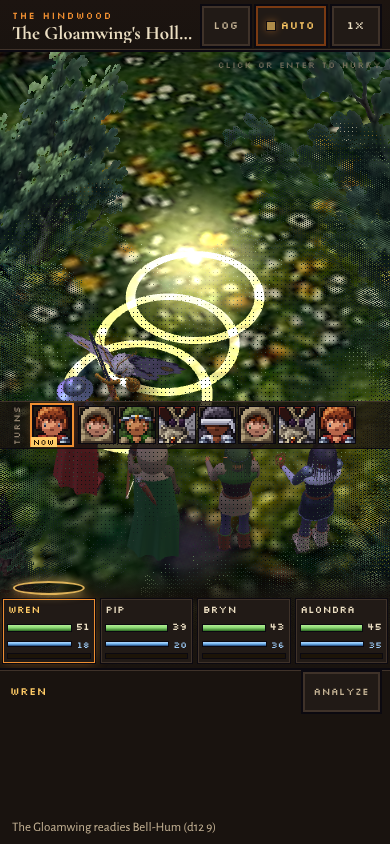
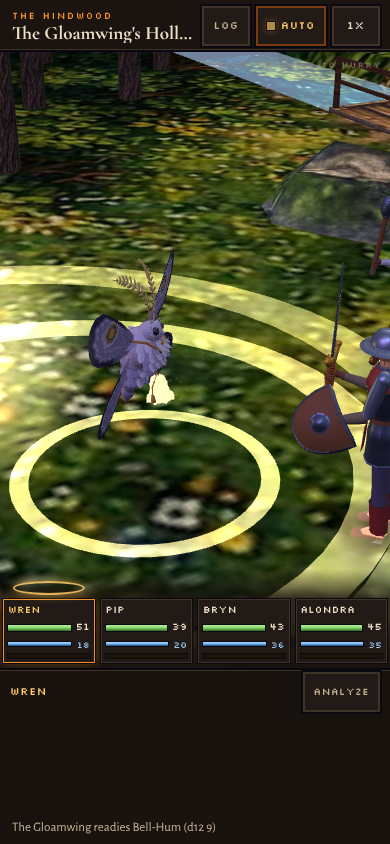
Fight: Models' winged chained (withWinged before the armoured): Gloamwing, the lamp-moth and the Thunder-Roc fight on their own moves; Act One at 320 px world textures to stay under 16 MB
Uses prototypes/winged/winged.js (Models).

Claude-Session: https://claude.ai/code/session_01DgbUKYR9qmKyBdACUWGViw

diff --git a/world3d/fight.js b/world3d/fight.js
@@ -43,6 +43,8 @@ import { registerWalkers } from '../prototypes/foe-hd/pages/walkers/register.js'
 import { withWraiths } from '../prototypes/wraiths/wraiths.js';
 // Models' armoured walkers and the Unsmith (rigid pieces too): the iron sentinels, their captain, the Ashen Warden
 import { withArmoured } from '../prototypes/armoured/armoured.js';
+// Models' winged (the lamp-moth, Gloamwing, the Thunder-Roc): hovering moths, the Roc's flight moves
+import { withWinged } from '../prototypes/winged/winged.js';
 import { runFight } from './battle/run.js';
 import { openParty } from './battle/party-room.js';
 
@@ -77,7 +79,7 @@ SCENES.den = encScene('briarmaw-den');
 const LOOKS = ['hd', '3d', 'cutout'];
 let look = LOOKS.includes(Q.get('foes')) ? Q.get('foes') : 'hd', hdLook = null;
 async function useLook(k) {
-  if (k === 'hd' && !hdLook) { await hdReady(); addMoves('scorpion', scorpionMoves); addMoves('lizard', lizardMoves); for (const A of HD_FOES) hdRegister(A, { res: Number(Object.keys(A.tex)[0]) }); registerWalkers(HD_WALKERS, hdRegister); hdLook = withArmoured(withWraiths(hdFoeLook(buildBeast))); }
+  if (k === 'hd' && !hdLook) { await hdReady(); addMoves('scorpion', scorpionMoves); addMoves('lizard', lizardMoves); for (const A of HD_FOES) hdRegister(A, { res: Number(Object.keys(A.tex)[0]) }); registerWalkers(HD_WALKERS, hdRegister); hdLook = withWinged(withArmoured(withWraiths(hdFoeLook(buildBeast)))); }
   setBeastLook(k === 'cutout' ? standeeLook : k === 'hd' ? hdLook : null);
 }
 let SC = Q.get('enc') && encScene(Q.get('enc')) || SCENES[Q.get('fight') === 'briarmaw' ? 'den' : 'road'];
@@ -294,7 +296,7 @@ async function main() {
     look = LOOKS[(LOOKS.indexOf(look) + 1) % LOOKS.length]; await useLook(look); looks();
     if (pack) for (const F of pack.figs) W.P.scene.remove(F.root);
     pack = null; spawnPack();
-    toast({ '3d': 'The foes as 3D models', cutout: 'The foes as Chris painted them', hd: `In full detail: ${[...HD_FOES.map((A) => A.key), ...Object.keys(HD_WALKERS), 'the wraiths', 'the armoured walkers', 'the Unsmith'].join(', ')}` }[look]);
+    toast({ '3d': 'The foes as 3D models', cutout: 'The foes as Chris painted them', hd: `In full detail: ${[...HD_FOES.map((A) => A.key), ...Object.keys(HD_WALKERS), 'the wraiths', 'the armoured walkers', 'the Unsmith', 'the winged'].join(', ')}` }[look]);
   });
   looks();
   $('scenebtn').addEventListener('click', () => { drawList(); list.classList.toggle('on'); });

diff --git a/world3d/battle/champions.js b/world3d/battle/champions.js
@@ -205,7 +205,7 @@ export const MOMENTS = {
   },
   'gloamwing:cocoon': { // "It wraps itself in silk: Regenerating."
     move: ['cocoon', 'cast'],
-    land: (c) => { c.fx.vines(c.F.pos.clone(), c.F.size.h * 1.0, Math.max(0.5, c.F.size.w * 0.55), '#f0ece0', 1.5); c.fx.pulse(mid(c), '#8ad872', 1.2, 1.0); },
+    land: (c) => { if (!c.F.fig.beast?.pose) c.fx.vines(c.F.pos.clone(), c.F.size.h * 1.0, Math.max(0.5, c.F.size.w * 0.55), '#f0ece0', 1.5); c.fx.pulse(mid(c), '#8ad872', 1.2, 1.0); }, // (Models' Gloamwing spins its own silk shell)
   },
   'gloamwing:bell-hum': { // "The Dawnbell hums on its thorax: 2d6 radiant to all, and you Stagger."
     move: ['bell-hum', 'roar'], camera: 'wide',
